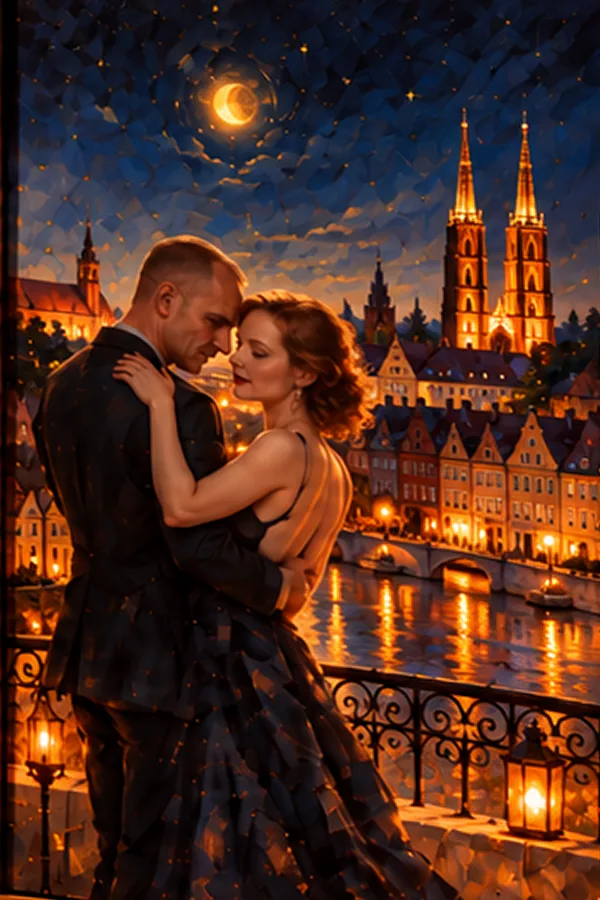
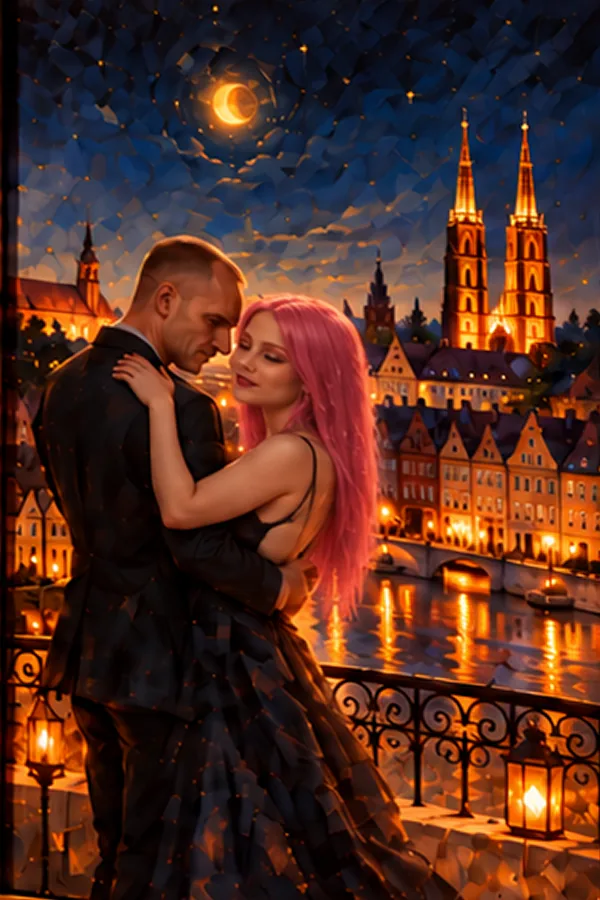
poprawki post deploy 1

diff --git a/static/css/base.css b/static/css/base.css
@@ -202,22 +202,32 @@ textarea { width: 100%; }
 .scena__gwiazda { position: absolute; z-index: 6; left: calc(var(--rama-x) - 26px); top: calc(var(--rama-y) - 4px); width: 52px; height: 52px; padding: 0; border: 0; background: transparent; color: #fff3dc; cursor: pointer; filter: drop-shadow(0 0 6px rgba(255, 214, 150, 0.95)) drop-shadow(0 0 18px rgba(243, 154, 46, 0.8)); animation: scena-puls 2.6s ease-in-out infinite; }
 .scena__gwiazda svg { display: block; width: 100%; height: 100%; }
 .scena__gwiazda:hover, .scena__gwiazda:focus-visible { animation-play-state: paused; color: #ffffff; filter: drop-shadow(0 0 8px rgba(255, 230, 180, 1)) drop-shadow(0 0 26px rgba(243, 154, 46, 1)); outline: 0; }
-.scena__pod { position: absolute; z-index: 6; left: var(--rama-x); top: calc(var(--rama-y) + var(--rama-h) + 14px); width: max(var(--rama-w), 420px); display: flex; flex-wrap: wrap; align-items: baseline; gap: 10px 14px; pointer-events: none; }
-/* wyśrodkowany w części sceny na prawo od kolumny tekstu (520px + 52px odstępu) */
-.scena__wiecej-wiersz { position: absolute; z-index: 6; left: 0; right: 0; bottom: 16px; display: flex; justify-content: center; pointer-events: none; }
+.scena__pod { position: absolute; z-index: 6; left: calc(var(--rama-x) + var(--rama-w) / 2); top: calc(var(--rama-y) + var(--rama-h) + 14px); translate: -50% 0; width: max(var(--rama-w), 420px); display: flex; flex-direction: column; align-items: center; gap: 8px; text-align: center; pointer-events: none; }
+/* zaproszenie do galerii po pierwszej zmianie obrazu, zawsze na pierwszym ekranie (dół sceny już nie).
+   Z miejscem obok ramy (klasa --obok z rama.js) stoi na podłodze przy świecach, między tekstem a ramą;
+   bez niego na dole ramy, w miejscu zachęty „kliknij ramę”. Miga, dopóki ktoś nie najedzie. */
+.scena__wiecej-wiersz { position: absolute; z-index: 6; left: calc(var(--rama-x) + var(--rama-w) / 2); top: calc(var(--rama-y) + var(--rama-h) - 104px); translate: -50% -50%; width: max-content; max-width: calc(var(--rama-w) - 16px); display: flex; justify-content: center; pointer-events: none; }
+.scena__wiecej-wiersz--obok { left: auto; right: calc(100% - var(--rama-x) + 32px); top: calc(var(--rama-y) + var(--rama-h) - 44px); translate: 0 -50%; max-width: none; }
+.scena__wiecej-wiersz--obok .scena__wiecej-tytul { font-size: clamp(1.35rem, 1.55vw, 1.9rem); }
 .scena__wiecej-wiersz[hidden] { display: none; }
-/* napis na całą szerokość: miejsce pod lewą kolumną, żeby nie wjechał na karty formatów */
-@media (min-width: 901px) {
-  .page-home--scena .home-hero:has(.scena__wiecej-wiersz:not([hidden])) { padding-bottom: 140px; }
+.scena__wiecej { display: flex; flex-direction: column; align-items: center; gap: 5px; padding: 12px 22px 11px; border-radius: 20px; background: rgba(8, 8, 12, 0.76); color: var(--tlo-ink); text-decoration: none; text-align: center; pointer-events: auto; text-shadow: 0 1px 2px rgba(0, 0, 0, 0.7); animation: scena-wiecej-ramka 1.4s ease-in-out infinite; }
+.scena__wiecej-tytul { display: inline-flex; align-items: center; gap: 10px; font-family: var(--font-serif); font-weight: 400; font-size: clamp(1.15rem, calc(var(--rama-w) * 0.056), 1.9rem); line-height: 1.1; letter-spacing: 0.01em; white-space: nowrap; animation: scena-wiecej-mig 1.4s ease-in-out infinite; }
+.scena__wiecej-gwiazda { flex: none; width: 0.8em; height: 0.8em; color: #ffd98a; filter: drop-shadow(0 0 6px rgba(255, 214, 150, 0.95)) drop-shadow(0 0 16px rgba(243, 154, 46, 0.7)); animation: scena-wiecej-gwiazda 1.4s ease-in-out infinite; }
+.scena__wiecej-strzalka { color: #ffd98a; transition: transform 0.2s; animation: scena-wiecej-strzalka 1.4s ease-in-out infinite; }
+.scena__wiecej-pod { font-size: 0.74rem; letter-spacing: 0.08em; text-transform: uppercase; opacity: 0.85; }
+.scena__wiecej:hover, .scena__wiecej:focus-visible { animation: none; outline: 0; box-shadow: 0 6px 20px rgba(0, 0, 0, 0.5), inset 0 0 0 2px #ffd98a, 0 0 30px 4px rgba(255, 190, 100, 0.6); }
+.scena__wiecej:hover .scena__wiecej-tytul, .scena__wiecej:focus-visible .scena__wiecej-tytul { animation: none; color: #ffffff; text-decoration: underline; text-decoration-color: #ffd98a; text-underline-offset: 6px; text-decoration-thickness: 2px; }
+.scena__wiecej:hover .scena__wiecej-strzalka, .scena__wiecej:focus-visible .scena__wiecej-strzalka { animation: none; transform: translateX(6px); }
+@keyframes scena-wiecej-ramka {
+  0%, 100% { box-shadow: 0 6px 20px rgba(0, 0, 0, 0.5), inset 0 0 0 1px rgba(255, 220, 170, 0.35), 0 0 0 0 rgba(255, 190, 100, 0); }
+  50% { box-shadow: 0 6px 20px rgba(0, 0, 0, 0.5), inset 0 0 0 2px rgba(255, 226, 168, 1), 0 0 32px 6px rgba(255, 190, 100, 0.7); }
 }
-.scena__wiecej { display: flex; flex-direction: column; align-items: center; gap: 4px; padding: 8px 20px; color: var(--tlo-ink); text-decoration: none; text-align: center; pointer-events: auto; text-shadow: 0 1px 2px rgba(0, 0, 0, 0.7), 0 0 22px rgba(0, 0, 0, 0.7); }
-.scena__wiecej-tytul { display: inline-flex; align-items: center; gap: 14px; font-family: var(--font-serif); font-weight: 400; font-size: clamp(1.7rem, 2.9vw, 2.8rem); line-height: 1.1; letter-spacing: 0.01em; }
-.scena__wiecej-gwiazda { width: 0.8em; height: 0.8em; color: #ffd98a; filter: drop-shadow(0 0 6px rgba(255, 214, 150, 0.95)) drop-shadow(0 0 16px rgba(243, 154, 46, 0.7)); animation: scena-puls 2.6s ease-in-out infinite; }
-.scena__wiecej-strzalka { color: #ffd98a; transition: transform 0.2s; }
-.scena__wiecej-pod { font-size: clamp(0.85rem, 1.1vw, 1.05rem); letter-spacing: 0.08em; text-transform: uppercase; opacity: 0.85; }
-.scena__wiecej:hover .scena__wiecej-tytul, .scena__wiecej:focus-visible .scena__wiecej-tytul { color: #ffffff; text-decoration: underline; text-decoration-color: #ffd98a; text-underline-offset: 6px; text-decoration-thickness: 2px; }
-.scena__wiecej:hover .scena__wiecej-strzalka { transform: translateX(6px); }
-.scena__wiecej:focus-visible { outline: 0; }
+@keyframes scena-wiecej-mig {
+  0%, 100% { color: var(--tlo-ink); text-shadow: 0 1px 2px rgba(0, 0, 0, 0.7); }
+  50% { color: #ffe6b3; text-shadow: 0 1px 2px rgba(0, 0, 0, 0.7), 0 0 16px rgba(255, 200, 120, 1); }
+}
+@keyframes scena-wiecej-gwiazda { 0%, 100% { transform: scale(0.85) rotate(0deg); opacity: 0.7; } 50% { transform: scale(1.3) rotate(45deg); opacity: 1; } }
+@keyframes scena-wiecej-strzalka { 0%, 100% { transform: none; } 50% { transform: translateX(5px); } }
 .scena__licznik { flex: none; padding: 5px 11px; border-radius: 999px; background: rgba(8, 8, 12, 0.62); color: var(--tlo-ink); font-size: 0.72rem; letter-spacing: 0.06em; font-variant-numeric: tabular-nums; }
 .scena__licznik[hidden], .scena__podpis[hidden] { display: none; }
 .scena__podpis { font-family: var(--font-serif); font-size: clamp(1.6rem, 2.6vw, 2.5rem); line-height: 1.15; color: var(--tlo-ink); text-shadow: 0 1px 2px rgba(0, 0, 0, 0.7), 0 0 18px rgba(0, 0, 0, 0.6); }
@@ -261,7 +271,7 @@ textarea { width: 100%; }
 .scena-kartka__wiecej a:hover { text-decoration: underline; }
 .scena__iskra { position: absolute; z-index: 7; width: 6px; height: 6px; border-radius: 50%; background: #fff0c8; box-shadow: 0 0 8px 2px rgba(255, 200, 120, 0.9); pointer-events: none; }
 @keyframes scena-puls { 0%, 100% { transform: scale(1); } 50% { transform: scale(1.14); } }
-@media (prefers-reduced-motion: reduce) { .scena__gwiazda, .scena__zacheta { animation: none; } }
+@media (prefers-reduced-motion: reduce) { .scena__gwiazda, .scena__zacheta, .scena__wiecej, .scena__wiecej * { animation: none; } }
 
 /* Inspiracje: galeria plakatów z promptami i podstrona jednej inspiracji */
 .galeria { padding: 40px 52px 64px; }
@@ -397,13 +407,14 @@ textarea { width: 100%; }
   .page-home--tlo .home-hero__band { display: block; height: 64vw; max-height: 460px; background: linear-gradient(180deg, rgba(0, 0, 0, 0) 70%, var(--tlo-page) 100%), var(--tlo-img) var(--tlo-focus-x) center / cover no-repeat; }
   .page-home--tlo .home-hero__copy { padding: 20px 24px 0; }
   .page-home--scena .home-hero { overflow: visible; }
-  .scena { position: relative; inset: auto; height: 64vw; max-height: 460px; }
-  .scena__obraz { object-position: var(--tlo-focus-x) center; }
+  /* prawie kwadratowy pas i kadr przy ramie: lewa część zdjęcia to pusta ściana pod tekst z desktopu */
+  .scena { position: relative; inset: auto; height: min(96vw, 460px); }
+  .scena__obraz { object-position: 92% center; }
   .scena::after { background: linear-gradient(180deg, rgba(0, 0, 0, 0) 70%, var(--tlo-page) 100%); }
   .scena__gwiazda { width: 40px; height: 40px; left: calc(var(--rama-x) - 20px); }
-  .scena__pod { left: 16px; right: 16px; top: auto; bottom: 10px; width: auto; align-items: center; }
+  .scena__pod { left: 16px; right: 16px; top: auto; bottom: 10px; translate: none; width: auto; gap: 6px; }
   /* na mobile napis schodzi pod scenę, a nagłówek robi mu miejsce */
-  .scena__wiecej-wiersz { top: calc(100% + 8px); bottom: auto; left: 16px; right: 16px; }
+  .scena__wiecej-wiersz { top: calc(100% + 8px); left: 16px; right: 16px; translate: none; width: auto; max-width: none; }
   .scena__wiecej-tytul { font-size: 1.45rem; gap: 10px; }
   .scena__wiecej-pod { font-size: 0.72rem; }
   .page-home--scena .home-hero:has(.scena__wiecej-wiersz:not([hidden])) .home-hero__copy { padding-top: 96px; }

diff --git a/static/js/rama.js b/static/js/rama.js
@@ -20,7 +20,8 @@
   var counter = scene.querySelector('[data-scena-licznik]');
   var caption = scene.querySelector('[data-scena-podpis]');
   var more = scene.querySelector('[data-scena-wiecej]');
-  var switches = 0; // po drugiej zmianie obrazu pokazujemy link do galerii inspiracji
+  var copy = document.querySelector('.home-hero__copy');
+  var switches = 0; // po pierwszej zmianie obrazu pokazujemy link do galerii inspiracji
   var emptyLabel = scene.querySelector('[data-scena-pusta]');
   var flash = scene.querySelector('.scena__blysk');
   var outlines = Array.prototype.slice.call(scene.querySelectorAll('[data-scena-obrys]'));
@@ -64,6 +65,17 @@
     emptyLabel.style.clipPath = poly;
     var points = pts.map(function (p) { return (p[0] - box.x) + ',' + (p[1] - box.y); }).join(' ');
     outlines.forEach(function (el) { el.setAttribute('points', points); });
+    placeMore();
+  }
+
+  // Napis do galerii: obok ramy, jeśli zmieści się między kolumną tekstu a ramą (szeroki ekran),
+  // inaczej na dole ramy. Na mobile CSS i tak stawia go pod sceną, a kolumna tekstu jest pod spodem.
+  function placeMore() {
+    if (more.hidden) return;
+    more.classList.add('scena__wiecej-wiersz--obok');
+    var textRight = copy ? copy.getBoundingClientRect().right - scene.getBoundingClientRect().left : 0;
+    var room = box.x - 32 - textRight - 24;
+    more.classList.toggle('scena__wiecej-wiersz--obok', textRight < box.x && more.offsetWidth <= room);
   }
 
   function isEmpty(i) { return images[i].getAttribute('data-empty') === '1'; }
@@ -74,12 +86,13 @@
     counter.hidden = empty;
     emptyLabel.hidden = !empty;
     tag.hidden = empty || !promptOf(current);
-    var showMore = empty || switches >= 2;
+    var showMore = empty || switches >= 1;
     if (showMore && more.hidden) {
       more.hidden = false;
+      placeMore();
       if (canAnimate) {
-        more.animate([{ opacity: 0, transform: 'translateY(8px)' }, { opacity: 1, transform: 'none' }],
-          { duration: 700, delay: 900, easing: 'ease-out', fill: 'backwards' });
+        more.animate([{ opacity: 0, transform: 'translateY(10px) scale(0.9)' }, { opacity: 1, transform: 'none' }],
+          { duration: 600, delay: 200, easing: 'cubic-bezier(0.2, 0.8, 0.3, 1.3)', fill: 'backwards' });
       }
     }
     hotspot.setAttribute('aria-label', empty ? 'Wgraj swój obrazek' : 'Pokaż następny plakat w ramie');

diff --git a/templates/poster/s1_upload.html b/templates/poster/s1_upload.html
@@ -12,8 +12,8 @@
     <div class="scena__stos">
       {% for r in ramy.ramy %}
         <img class="scena__obraz{% if forloop.first %} scena__obraz--biezacy{% endif %}"
-             src="{% static 'img/tla/ramy/'|add:r.file|add:'.webp' %}"
-             srcset="{% static 'img/tla/ramy/'|add:r.file|add:'-720.webp' %} 720w, {% static 'img/tla/ramy/'|add:r.file|add:'.webp' %} {{ ramy.size.0 }}w"
+             src="{% static 'img/tla/ramy/'|add:r.file|add:'.webp' %}?v={{ r.v }}"
+             srcset="{% static 'img/tla/ramy/'|add:r.file|add:'-720.webp' %}?v={{ r.v }} 720w, {% static 'img/tla/ramy/'|add:r.file|add:'.webp' %}?v={{ r.v }} {{ ramy.size.0 }}w"
              sizes="(max-width: 900px) 100vw, 100vw" width="{{ ramy.size.0 }}" height="{{ ramy.size.1 }}"
              {% if forloop.first %}fetchpriority="high"{% else %}loading="lazy"{% endif %}
              data-empty="{{ r.empty|yesno:'1,0' }}" data-caption="{{ r.caption }}" data-font="{{ r.font }}"
@@ -43,7 +43,7 @@
       <span class="scena__licznik" data-scena-licznik></span>
       <span class="scena__podpis" data-scena-podpis aria-live="polite"></span>
     </div>
-    {# po paru kliknięciach: duży napis na środku sceny, zaproszenie do galerii z promptami #}
+    {# po pierwszym kliknięciu: migający napis na dole ramy, zaproszenie do galerii z promptami #}
     <div class="scena__wiecej-wiersz" data-scena-wiecej hidden>
       <a class="scena__wiecej" href="{% url 'web:inspirations' %}">
         <strong class="scena__wiecej-tytul">

diff --git a/templates/poster/inspiracja.html b/templates/poster/inspiracja.html
@@ -7,7 +7,7 @@
   <p class="inspiracja__powrot"><a href="{% url 'web:inspirations' %}">&larr; Wszystkie inspiracje</a></p>
   <div class="inspiracja__uklad">
     <figure class="inspiracja__obraz">
-      <img src="{% static 'img/galeria/'|add:wpis.file|add:'.webp' %}" width="600" height="900" fetchpriority="high" alt="{{ wpis.caption }}">
+      <img src="{% static 'img/galeria/'|add:wpis.file|add:'.webp' %}?v={{ wpis.v }}" width="600" height="900" fetchpriority="high" alt="{{ wpis.caption }}">
     </figure>
     <div class="inspiracja__tresc">
       <h1 class="inspiracja__tytul" style="font-family: '{{ wpis.font|default:'Newsreader' }}', var(--font-serif)">{{ wpis.caption }}</h1>

diff --git a/templates/poster/inspiracje.html b/templates/poster/inspiracje.html
@@ -25,7 +25,7 @@
     {% for w in wpisy %}
       <li class="galeria__karta">
         <a class="galeria__obraz" href="{% url 'web:inspiration' w.file %}">
-          <img src="{% static 'img/galeria/'|add:w.file|add:'.webp' %}" width="600" height="900" loading="lazy"
+          <img src="{% static 'img/galeria/'|add:w.file|add:'.webp' %}?v={{ w.v }}" width="600" height="900" loading="lazy"
                alt="{{ w.caption }}">
         </a>
         <p class="galeria__podpis" style="font-family: '{{ w.font|default:'Newsreader' }}', var(--font-serif)">{{ w.caption }}</p>

diff --git a/scripts/ramy.py b/scripts/ramy.py
@@ -12,6 +12,8 @@ kolejność wierszy to kolejność obrazów, pliki spoza listy idą na koniec al
 
 Wyjście: `static/img/tla/ramy/<nazwa>.webp` (pełny rozmiar) i `<nazwa>-720.webp` (telefon)
 oraz `manifest.json` z kolejnością, podpisami, czworokątem ramy i rozmiarem tła.
+Wersja (`v`, skrót pliku źródłowego) idzie do adresów obrazów, żeby podmieniony render pod tą samą
+nazwą nie wisiał w pamięci przeglądarki.
 Do galerii inspiracji: sam plakat wycięty z ramy i wyprostowany (`static/img/galeria/<nazwa>.webp`).
 
 Gdy render dokłada coś do pokoju poza ramą (kot na dywanie, zdjęcie na ścianie), bierzemy
@@ -22,6 +24,7 @@ z ostrzeżeniem: wklejona rama nie trafiłaby w ramę na oryginale.
 Uruchomienie z katalogu projektu: `.venv\\Scripts\\python scripts\\ramy.py`
 """
 
+import hashlib
 import json
 import re
 import sys
@@ -48,7 +51,9 @@ FRAME = [(1151, 103), (1507, 68), (1494, 645), (1136, 662)]
 OUTLINE = [(1151, 101), (1507, 64), (1493, 652), (1446, 664), (1136, 650)]
 MARGIN = 8  # o tyle px poszerzamy czworokąt poza krawędź ramy
 FEATHER = 10  # promień rozmycia krawędzi maski
-MAX_ROOM_DIFF = 12.0  # średnia różnica pikseli poza ramą, powyżej której render jest pomijany
+# Średnia różnica pikseli poza ramą, powyżej której render jest pomijany. Duży dodatek (twarz
+# wyświetlona na ścianie, rama_1.3) daje ok. 15, render z inną ramą (rama_2) ponad 20.
+MAX_ROOM_DIFF = 18.0
 MIN_EXTRA = 0.5  # % obrazu poza ramą z wyraźną zmianą, od którego bierzemy cały render
 WEBP = {"quality": 82, "method": 6}
 SMALL_WIDTH = 720
@@ -165,6 +170,7 @@ def main():
         entries.append(
             {
                 "file": stem,
+                "v": hashlib.md5(path.read_bytes()).hexdigest()[:8],
                 "empty": path.name == EMPTY,
                 "caption": caption,
                 "font": font.split(":")[0],  # nazwa rodziny do CSS

diff --git a/config/settings/development.py b/config/settings/development.py
@@ -1,12 +1,27 @@
 """Lokalna praca i testy: wygodne wartości domyślne, wszystko da się nadpisać zmiennymi."""
 
 from .base import *  # noqa: F403
-from .base import INSTALLED_APPS, env, env_bool, env_list
+from .base import INSTALLED_APPS, MIDDLEWARE, env, env_bool, env_list
 
 SECRET_KEY = env("DJANGO_SECRET_KEY", "dev-insecure-secret-key-tylko-lokalnie")
 DEBUG = env_bool("DJANGO_DEBUG", True)
 ALLOWED_HOSTS = env_list("DJANGO_ALLOWED_HOSTS", "*")
 HOME_BACKGROUND_SWITCH = env_bool("HOME_BACKGROUND_SWITCH", DEBUG)
+
+# Pliki statyczne z whitenoise zamiast runservera, jak w `demo.py`. Przy DEBUG wysyła max-age=0,
+# więc przeglądarka przy każdym wczytaniu pyta o zmiany (304, gdy bez zmian) i podmieniony CSS
+# albo obraz pod tą samą nazwą widać bez Ctrl+F5. Runserver wydaje je bez Cache-Control i
+# przeglądarka trzymała stare kopie. `runserver_nostatic` musi stać przed `staticfiles`.
+INSTALLED_APPS = ["whitenoise.runserver_nostatic", *INSTALLED_APPS]
+_security = MIDDLEWARE.index("django.middleware.security.SecurityMiddleware")
+MIDDLEWARE = [
+    *MIDDLEWARE[: _security + 1],
+    "whitenoise.middleware.WhiteNoiseMiddleware",
+    *MIDDLEWARE[_security + 1 :],
+]
+# Tryb deweloperski na sztywno: pytest-django wyłącza DEBUG w locie i whitenoise szukałby wtedy
+# staticfiles/ po collectstatic, którego lokalnie nie ma.
+WHITENOISE_AUTOREFRESH = WHITENOISE_USE_FINDERS = DEBUG
 
 # Atrapa GH w tym procesie: API /shop-api/v1/ i pulpit /gh-mock/. Wyłączenie (GH_MOCK_ENABLED=0)
 # ma sens tylko z prawdziwym GH w GH_API_BASE_URL.
